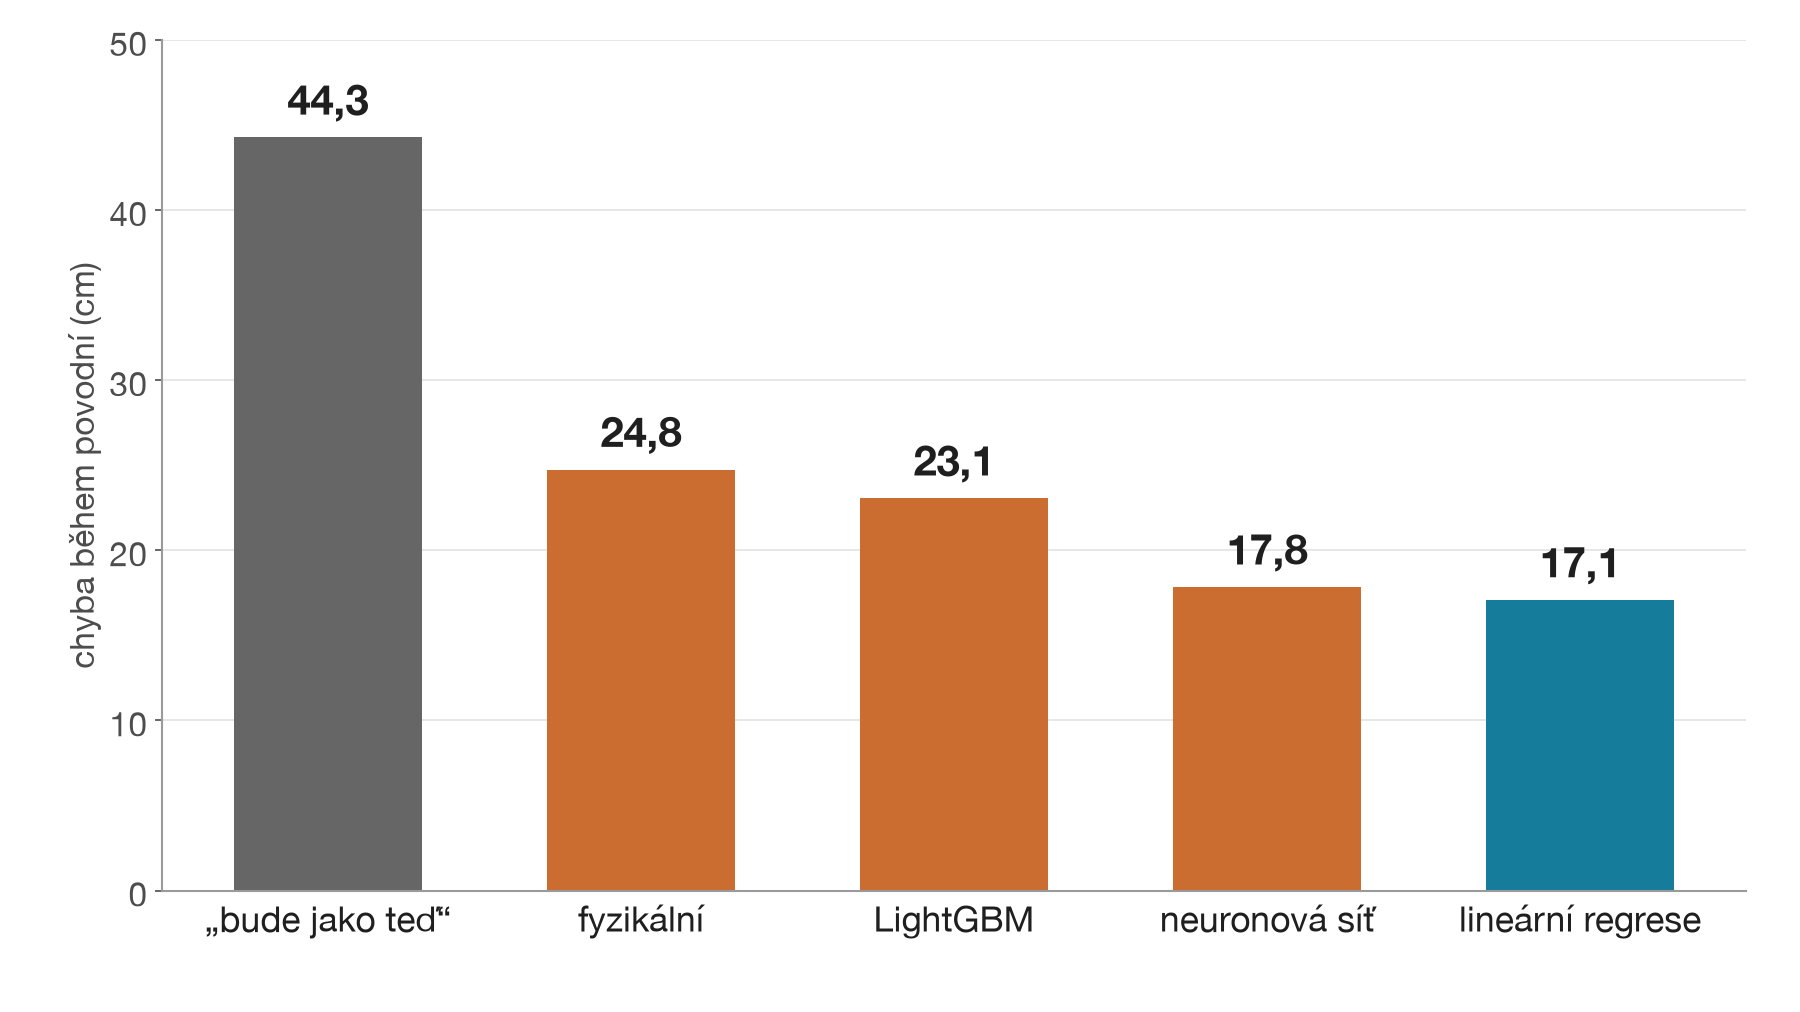
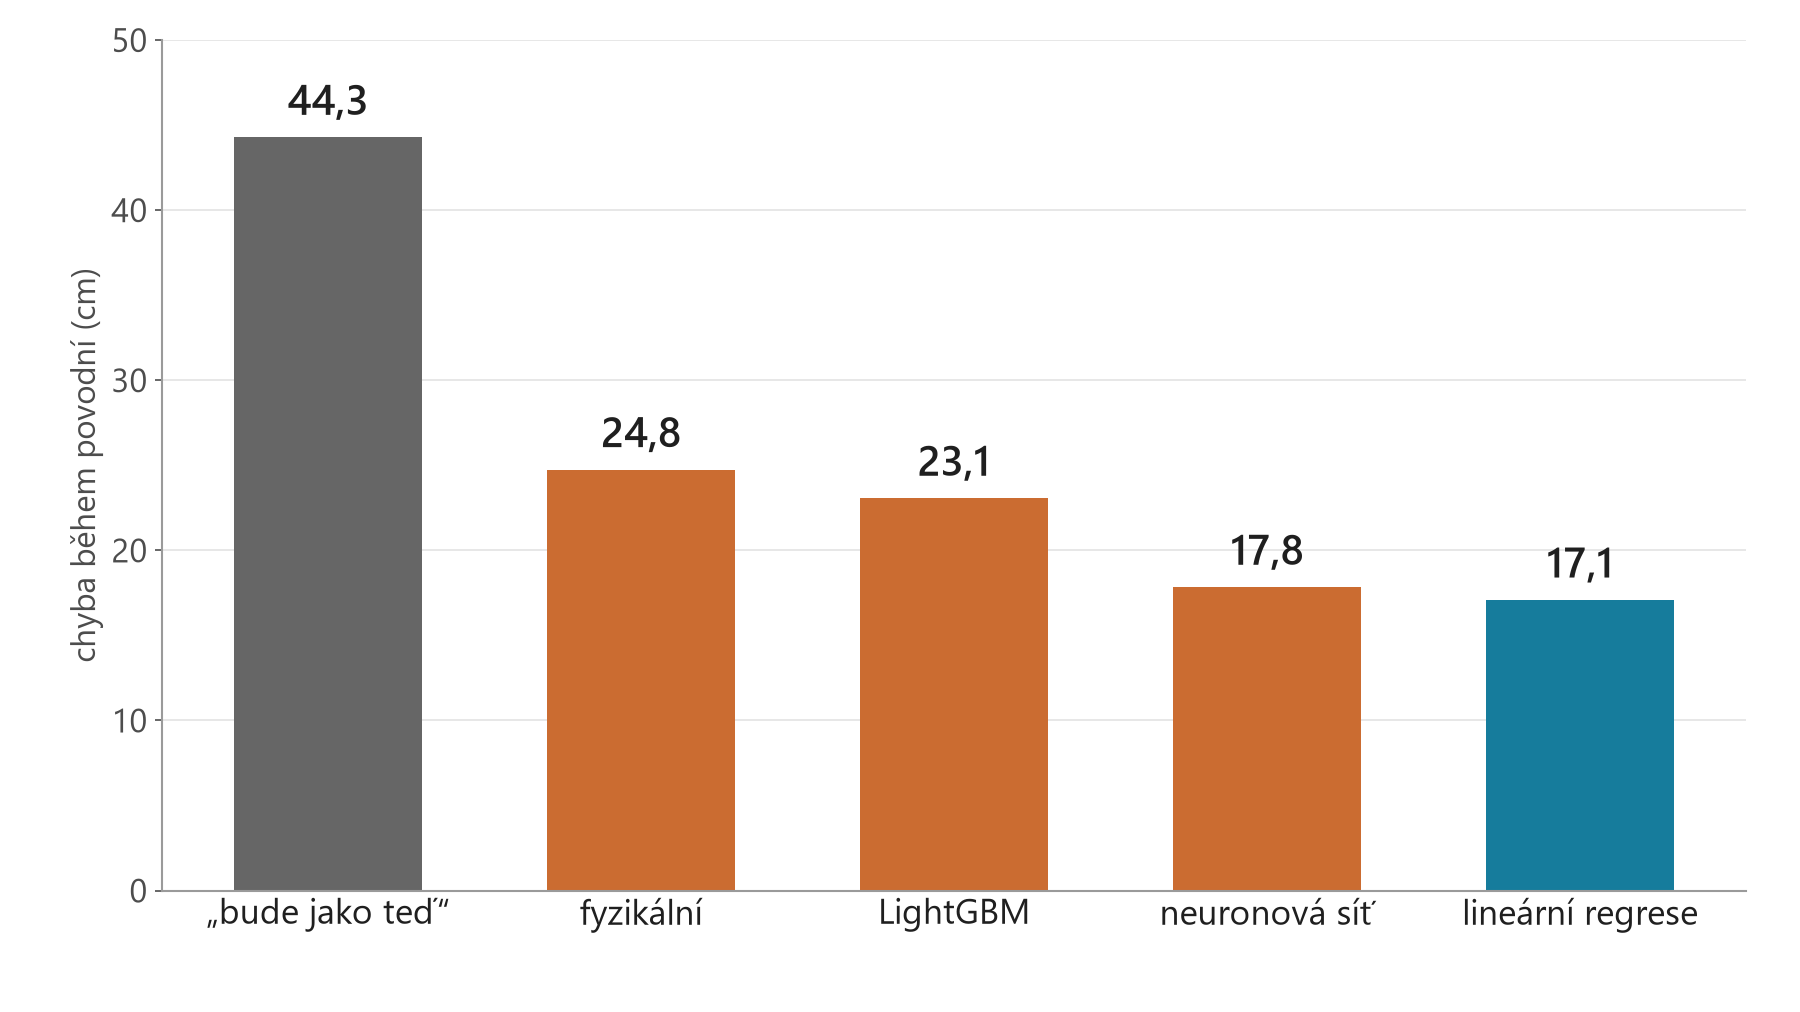
Honza: deck v Canvě přeskládaný podle kostry na 7 minut, PREZENTACE.md jen vizuální jazyk a mapa stránek, grafy do prezentace přegenerované na Windows

diff --git a/docs/PREZENTACE.md b/docs/PREZENTACE.md
@@ -1,48 +1,45 @@
-# Prezentace: 7 minut mluvení, 5 minut otázek
+# Prezentace: vizuální jazyk a stavba v Canvě
 
-Deck je v Canvě: https://www.canva.com/d/xVAIR8am2CrRslj (9 slajdů, 1920 x 1080, tmavý „povodňový pult“). Poznámky řečníka s časem a textem jsou u každého slajdu přímo v Canvě. Podklady: grafy `docs/grafy/slajdy/`, snímky aplikace a mapy `docs/grafy/`. Porota z FJFI, DCÚK a firem; hodnotí splnění (10), postup (10), odbornost (20) a prezentaci (10). Pořadí je pevné: ukázat výsledek, vysvětlit, dokázat, přiznat limity.
+Obsah a pořadí slajdů určuje Ondrova kostra na 7 minut v `docs/PREZENTACE_7MIN.md` (10 slajdů, 5 záložních). Tenhle soubor říká, jak deck vypadá a jak je postavený v Canvě. Deck: https://www.canva.com/d/xVAIR8am2CrRslj (1920 x 1080, 17 stránek, u každé poznámky řečníka s časem). Grafy jsou z `docs/grafy/prezentace/` (bez nadpisů, nadpis je na slajdu), snímky aplikace z `docs/grafy/`.
 
 ## Myšlenka a vizuální jazyk
 
-Jedna věta, která drží celou prezentaci: **„Co teče Prahou teď, je zítra v Děčíně.“** Vizuálně ji nese **linie řeky**: tenká modrá čára Vltavy a Labe od Prahy po Děčín (z `data/external/reky.geojson`), velká na titulu, malá vpravo dole na každém dalším slajdu; rozsvícená tečka ukazuje, o které stanici se mluví (Praha modrá, Mělník oranžová, Děčín červená).
+Jedna věta, která drží celou prezentaci: **„Co teče Prahou teď, je zítra v Děčíně.“** Nese ji **linie řeky**: tenká modrá čára Vltavy a Labe od Prahy po Děčín (z `data/external/reky.geojson`), velká na titulu, malá vpravo dole na každém dalším slajdu; rozsvícená tečka ukazuje, o kterém úseku se mluví (Praha modrá, Mělník oranžová, Děčín červená).
 
 - Barvy jako v aplikaci: pozadí #111820, karty #1a232d, voda #3aa0c9 a #7cc6e4, stupně #f2c437 / #ef6c00 / #c62828, text #ffffff a #c8d1d9, tlumený #8b98a5, „bude jako teď“ #666666. Nic jiného.
 - Písmo: nadpisy a čísla Sofia Sans Extra Condensed (náhrada Barlow Condensed nebo Oswald), text Schibsted Grotesk (náhrada Archivo). Canva přes API rodinu písma nastavit neumí, viz „Co dodělat ručně“.
 - Každý slajd má jedno tvrzení jako nadpis, jedno velké číslo nebo jeden obrázek, nejvýš tři věty textu. Žádné odrážkové stěny, ikony z knihoven, stock fotky ani přechody.
 - Grafy jako bílé karty vlevo, čísla a text vpravo. Snímky mapy přes celý slajd se ztmavením.
-- Patička: „Data ČHMÚ · otevřená data 2006–2025“ a zdroje map.
+- Patička: zdroj dat a map. Štítek vlevo nahoře: číslo bloku a téma (01 · CO ŘEŠÍME …), u záložních slajdů otázka poroty, na kterou odpovídají.
 
-## Slajdy a čas (celkem 7:00)
+## Stránky v Canvě
 
-| # | Čas | Nadpis (tvrzení) | Obsah a podklad | Kdo |
-|---|---|---|---|---|
-| 1 | 0:00 | Kolik vody přiteče do Děčína | titul přes celý slajd: `docs/grafy/mapbox2_porovnani.png` ztmavený, linie řeky Praha–Děčín, věta „Co teče Prahou teď, je zítra v Děčíně.“, jména týmu | Tobias |
-| 2 | 0:20 | Model hlásil 3. stupeň v Děčíně 27 hodin předem | `slajdy/boris_2024.png`, velké „27 h“; varování 14. 9. 2024 11:00, voda 15. 9. 14:00; test 2021–2025 o 55 % menší chyba | Tobias |
-| 3 | 0:50 | Děčín dnes vidí 4 hodiny dopředu. My dáváme 24. | velká čísla 4 h (šedě) a 24 h (modře); Ústí je 4 h proti proudu, Praha den; pro koho: komise, lidé u řeky; metrika = stupeň a hodiny předstihu | Tobias |
-| 4 | 1:30 | S daty z balíčku by model byl horší než nic | `slajdy/kolik_dat.png`; 20 let · 12 stanic · 175 320 hodin; dělení trénink / 4 povodně / test 2021–2025, 20 dní kolem povodní vynecháno | Ondra |
-| 5 | 2:15 | Největší váhu má Praha teď: voda z Prahy je v Děčíně za den | `slajdy/vahy_decin_24h.png`; 98 vstupů, odmocnina průtoků, záporné váhy = trend, na 12 h Mělník | Honza |
-| 6 | 3:00 | Čtyři modely na stejném úkolu, vyhrál nejjednodušší | `slajdy/srovnani_modelu.png`, velké „−55 %“ (22,4 proti 50,2 cm); co nepomohlo: srážky 17,4, váhy 18,5, TCN 20,3, síť 17,8; rozmezí 9 z 10 a 8 z 10; 4 povodně, 0 propásnutých, 0 planých | Ondra, Dan |
-| 7 | 3:45 | Živé demo (2 minuty) | pozadí `docs/grafy/mapbox2_animace.png` (nahradit videem); 1) Teď 15. 1. 2011 9:00: 646 → 738 cm, 3. stupeň, rozmezí 712–794; 2) Dnešek: živá data ČHMÚ + oficiální předpověď; 3) Mapa: vybrat povodeň, Přehrát, předpověď × skutečnost, rozliv v ulicích | Honza |
-| 8 | 5:45 | Předpověď v centimetrech znamená ulice a domy | `docs/grafy/mapbox_decin.png`; rozliv z terénu ČÚZK: 167 ha náš, 183 ha úřední, 165 ha společných; není to hydraulický model, shoda 82–90 % | Honza |
-| 9 | 6:20 | Co model neumí a co bychom dělali dál | čtyři karty: 36 h dvakrát horší, vrcholy nad trénink (Boris −38 cm), rozliv statický, provozní data se zpožděním; co dál: doba putování podle průtoku, živá data, hodinové srážky; „Děkujeme. Otázky?“ | Dan, Tobias |
+| Stránka | Slajd kostry | Nadpis | Podklad |
+|---|---|---|---|
+| 1 | (titul, do času se nepočítá; kdo začíná videem, smaže ho) | Kolik vody přiteče do Děčína | `mapbox2_porovnani.png`, linie řeky Praha–Děčín |
+| 2 | 1 video | bez nadpisu, věta „Tohle je Děčín v září 2024. Náš model to hlásil 27 hodin předem.“ | zatím snímek `mapbox2_animace.png`, nahradit videem |
+| 3 | 2 | Den předem víte, kam až voda dosáhne | `prezentace/02_mapa_decin.png` přes celý slajd, velké 27 h |
+| 4 | 3 | Co teče Prahou teď, je zítra v Děčíně | `03a_mapa_stanic.png`, `03b_proc_externi_data.png`, 20 let · 12 stanic · 175 320 hodin |
+| 5 | 4 | Model vidí jen to, co je v tu chvíli změřené | `04_vahy_modelu.png` |
+| 6 | 5 | Zkusili jsme 12 cest, vyhrál nejjednodušší | `05_co_jsme_zkouseli.png`, velké „12 cest“ |
+| 7 | 6 | Ověřujeme třikrát, pokaždé na povodních, které model neviděl | `06_jak_overujeme.png` |
+| 8 | 7 | Boris: 3. stupeň hlášen 27 hodin předem | `07_boris_2024.png`, velké 27 h |
+| 9 | 8 | O 55 % menší chyba na testu i na všech 8 povodních | `08a_test_2021_2025.png`, `08b_vicenasobna_validace.png`, velké −55 % |
+| 10 | 9 | Živé demo (Dnešek, mapa Borise, rozliv), 70 s | pozadí `mapbox2_animace.png` ztmavené |
+| 11 | 10 | Co umíme, co ne a co dál | čtyři karty, závěrečná věta, „Děkujeme. Otázky?“ |
+| 12 | záloha | Rozliv: výška terénu proti hladině, ověřená proti úřední mapě | `mapbox_decin.png`, 167 / 183 / 165 ha |
+| 13–17 | Z1–Z5 | Jak dopadly jednotlivé modely · „Bude jako teď“ je vždycky o den pozadu · Když se blíží vrchol, už neprší · Do rozmezí od–do se vejde 8 až 9 z 10 hodnot · Povodeň 2011: 3. stupeň hlášen 15 hodin předem | `Z1`–`Z5` |
 
-Demo má pevné 2 minuty, nacvičené klik po kliku. Když se zadrhne, pustí se záložní video a jede se dál. Čísla v tabulce jsou čas od začátku.
-
-## Otázky poroty (5 minut)
-
-Odpovědi na 20 otázek jsou v `docs/STRATEGIE.md` (větev `honza-vyzkum`) a rozbory v `docs/DENIK.md`. Ke každému slajdu patří jedna otázka, kterou si řečník nacvičí:
-
-- slajd 4: „Proč nestačil balíček?“ a „Proč nedělíte náhodně?“ (sousední hodiny jsou skoro stejné, náhodné dělení by výsledek falešně vylepšilo)
-- slajd 5: „Proč záporné váhy?“ (model počítá trend) a „Proč odmocnina?“ (hladina roste s průtokem zhruba jako odmocnina)
-- slajd 6: „Proč ne neuronová síť?“ (17,8 proti 17,1, a nejde vysvětlit) a „A co když zaprší?“ (déšť už teče v řekách, průtoky ho vidí dřív)
-- slajd 6: „Jak moc se pletete?“ (rozmezí od–do, 9 z 10 a 8 z 10)
-- slajd 8: „To je váš hydraulický model?“ (ne, výška terénu proti výšce hladiny, ověřeno proti úřední mapě)
-- slajd 9: „Co když přijde větší povodeň než 2013?“ (podhodnotí, Boris o 38 cm; stupeň ale hlásí včas)
+Časy, řečníci a co se říká jsou v `docs/PREZENTACE_7MIN.md` a v poznámkách řečníka v Canvě. Oprava proti dřívějšímu plánu: neříkat, že „Děčín dnes vidí jen 4 hodiny dopředu“; ČHMÚ pro Děčín oficiální předpověď vydává a aplikace ji ukazuje, 4 h platí jen pro data z balíčku.
 
 ## Co dodělat ručně v Canvě
 
-1. Písma: na každém slajdu vybrat vše (Ctrl+A) a nastavit nadpisy a velká čísla na Sofia Sans Extra Condensed, text na Schibsted Grotesk. Po přechodu na kondenzované písmo zvětšit nadpisy a čísla o 10 až 20 %, textu zůstane místo.
-2. Slajd 7: vyměnit pozadí za video animace povodně (`docs/grafy/video_povoden.mp4`, až bude natočené), ztmavení nechat.
+1. Písma: na každé stránce vybrat vše (Ctrl+A), nadpisy a velká čísla přepnout na Sofia Sans Extra Condensed, text na Schibsted Grotesk. Po přechodu na kondenzované písmo zvětšit nadpisy a čísla o 10 až 20 %, místa je dost.
+2. Stránka 2: vyměnit obrázek na pozadí za video z aplikace (Děčín, Boris 9/2024, 4 h za s, celá obrazovka, 25 s, bez zvuku), ztmavení dole nechat kvůli větě.
 3. Přechody vypnout, animace prvků žádné.
 4. Export do PDF jako záloha bez videa; na flashku i s videem.
 5. Dva nácviky s časomírou: sobota 11:00 a 13:00; na druhém Ondra hraje porotu.
+
+## Otázky poroty
+
+Odpovědi jsou v `docs/POROZUMENI.md` (sekce Otázky, které čekáme od poroty), v `docs/CESTA_MODELU.md` a v `docs/STRATEGIE.md` (větev `honza-vyzkum`). Záložní slajdy 12 až 17 odpovídají rovnou grafem: proč lineární regrese, co je „bude jako teď“, proč ne srážky, jak moc se pleteme, další povodeň mimo trénink, a jestli je rozliv hydraulický model (není, je to výška terénu proti hladině ověřená proti úřední mapě).
